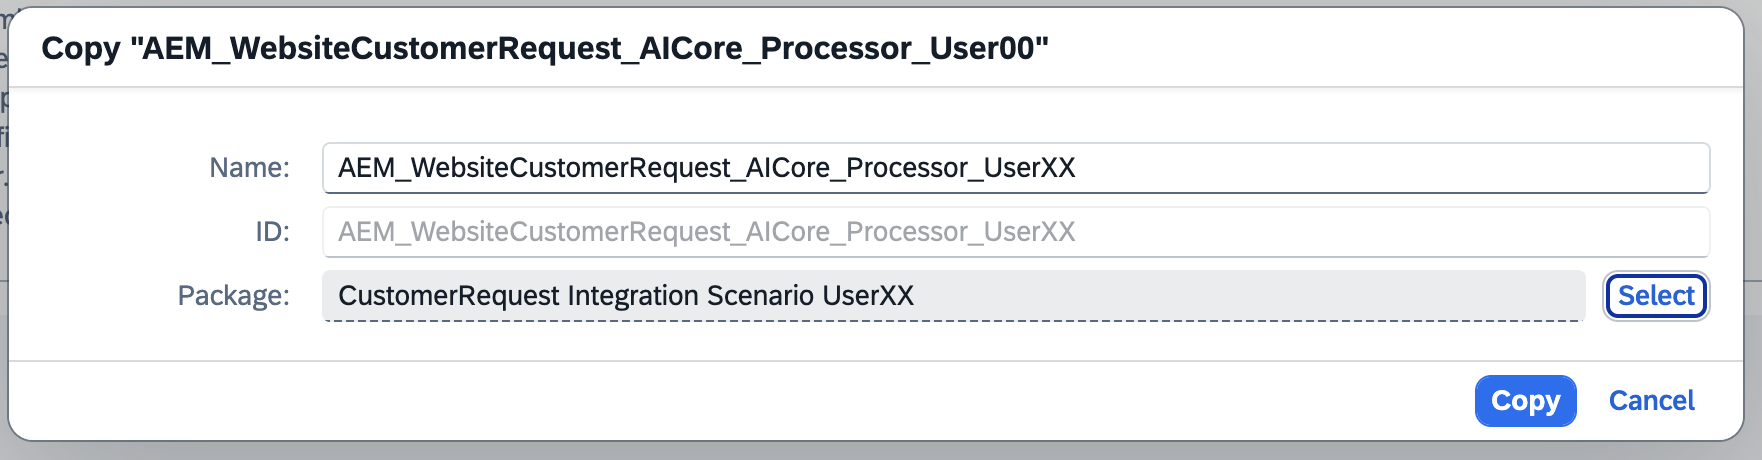
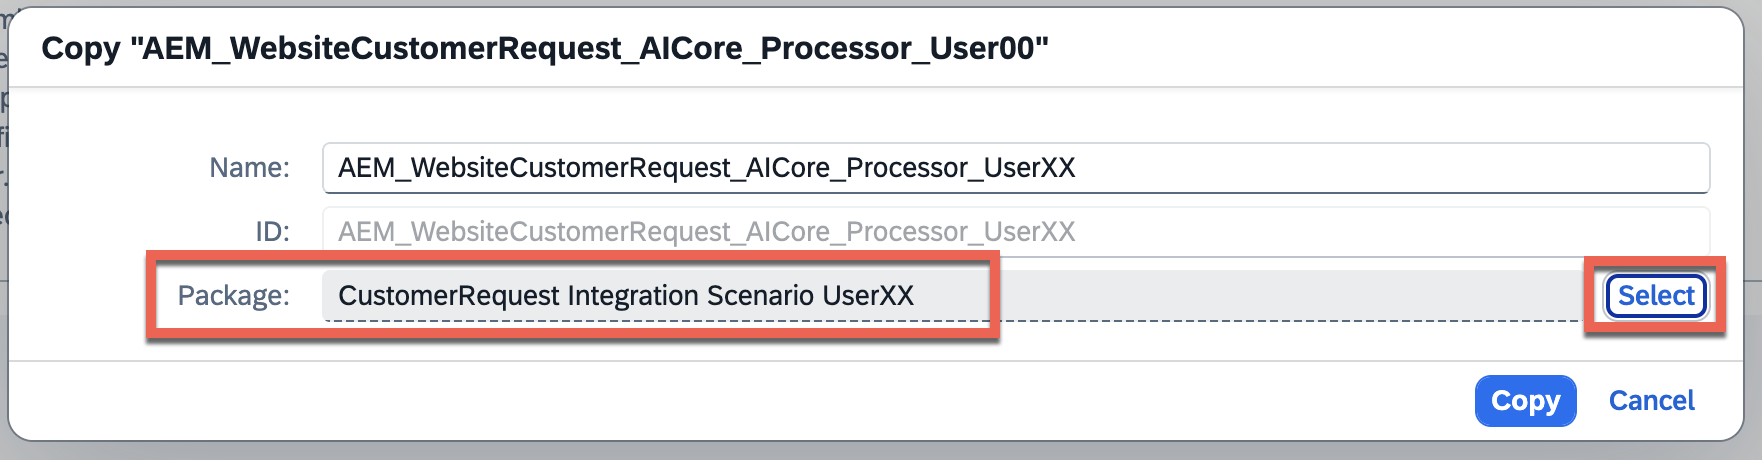
Incorporating Tobin feedback

Changed region(s): [[0.0624, 0.5174, 0.5931, 0.7609], [0.874, 0.5478, 0.9989, 0.7609]]

diff --git a/tutorials/dev-garage-customer-request/dev-garage-customer-request.md b/tutorials/dev-garage-customer-request/dev-garage-customer-request.md
@@ -177,7 +177,7 @@ In our iFlow, we will set the Orchestration configuration details as exchange pr
 
 Now that we understand the integration scenario and what our prompt template produces, it is time to create the integration flow (iFlow) that will process incoming customer support requests.
 
-👉 Navigate to SAP Integration Suite - URL shared in Step 1. Now, create a new Integration Package, name it *CustomerRequest Integration Scenario User{{var:userNumber}}* (replace the number with the number corresponding to your user) and select the **Save** button.
+👉 Navigate to SAP Integration Suite - URL shared in Step 1. Now, create a new Integration Package, name it ***CustomerRequest Integration Scenario User{{var:userNumber}}*** (replace the number with the number corresponding to your user) and select the **Save** button.
 
 | Field | Value |
 | ---------- | ------- |
@@ -189,11 +189,15 @@ Now that we understand the integration scenario and what our prompt template pro
 
 > Unfortunately, we might not have enough time to create an integration flow from scratch. Therefore, we've prepared an integration flow for you to copy and configure to speed up the creation process.
 
-👉 Now, navigate to the **CustomerRequest Integration Scenario User00** integration package, select the actions button **...** of the **AEM_WebsiteCustomerRequest_AICore_Processor_User00** integration flow and then the **Copy** button to copy the integration flow.
+👉 Now, navigate to the **CustomerRequest Integration Scenario User00** integration package by navigating to Design > Integrations and APIs and selecting the **CustomerRequest Integration Scenario User00** integration package.
+
+![Navigate to CustomerRequest Integration Scenario User00](assets/navigate-customer-request-user00.png)
+
+👉 In the **Artifacts** tab, select the actions button **...** of the **AEM_WebsiteCustomerRequest_AICore_Processor_User00** integration flow and then the **Copy** button to copy the integration flow.
 
 ![Copy action button](assets/copy-action.png)
 
-👉 In the pop-up, set your username as the name of the Integration Flow and select the Integration package you created previously.
+👉 In the pop-up, set your username as the name of the Integration Flow and select the Integration package you created previously, e.g. **CustomerRequest Integration Scenario User{{var:userNumber}}**.
 
 ![Select package](assets/copy-select-package.png)
 
@@ -208,7 +212,7 @@ Our copied integration flow is ready for us. Let's get familiar with it.
 | Field | Value |
 |-------|-------|
 | **Sender Tab** | -- |
-| Value | Replace the placeholder `User{{var:userNumber}}` with your actual user number, e.g. User85 |
+| Value | Replace the placeholder `UserXX` with your actual user number, e.g. User{{var:userNumber}} |
 | **Receiver Tab** | --- |
 | AICoreDeployymentID | Users User01-User99, set `dbd716fe17616cc3` as the value. Users User100-User180, set `d6bc04de07fb1d32` as the value. |
 | **More Tab** | --- |
@@ -242,6 +246,8 @@ In the **Processing** tab, the following properties are set. We are just convert
 |----------|-------|
 | Use namespace mapping | ✅ |
 | Add XML root element | ✅ |
+
+> In the UI, there will be a warning indicating that the *Solace PubSub+ Component Sender may not pass JSON message to JSON To XML Converter. JSON To XML Converter supports JSON input only*. You can safely ignore the warning, nothing to worry about :-).
 
 #### Customer Request and LLM properties - Content Modifier
 
